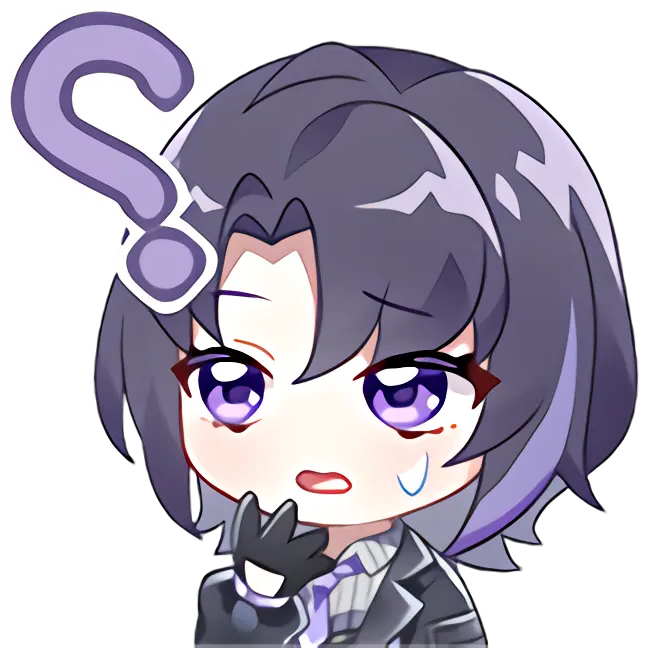
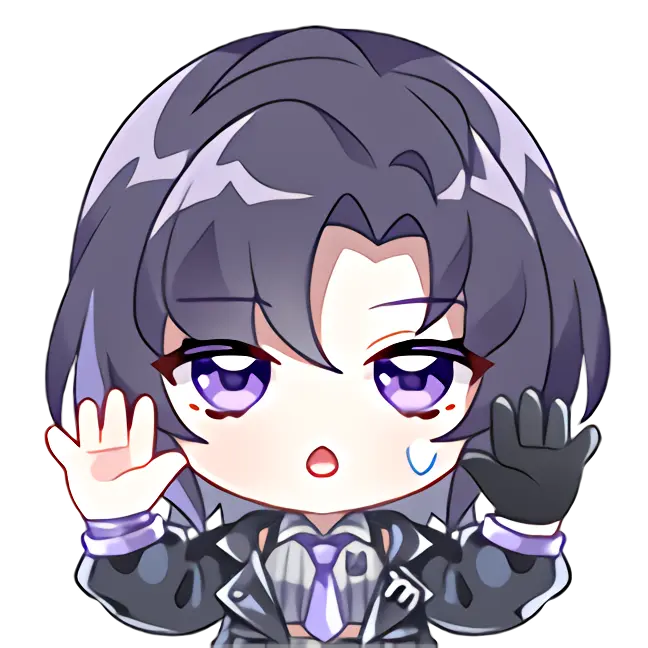
增加更多互动状态  指定默认生成位置

diff --git a/src/index.js b/src/index.js
@@ -28,6 +28,28 @@ const TABLE = {
     bait: "icecream",
   },
 };
+const POSITIONS = [
+  {
+    x: 0,
+    y: $(window).height() - 100,
+  },
+  {
+    x: $(window).width() - 100,
+    y: $(window).height() - 100,
+  },
+  {
+    x: 0,
+    y: 0,
+  },
+  {
+    x: $(window).width() - 100,
+    y: 0,
+  },
+  {
+    x: ($(window).width() - 100) / 2,
+    y: $(window).height() - 100,
+  },
+];
 
 /* class definition */
 class ASoul {
@@ -88,12 +110,9 @@ class ASoul {
       })
       .mouseup((e) => {
         this.updatePosition(this.getPosition(this.selector));
-        let min = 2;
-        let max = 5;
-        let rand = parseInt(Math.random() * (max - min + 1) + min, 10);
         this.sendMessage();
         setTimeout(() => {
-          this.changeStatus("interact_" + rand);
+          this.changeStatus("interact_" + randInt(2, 9));
         }, 500);
       })
       // drag & drop event
@@ -371,16 +390,18 @@ function towardFollowMouse(actor) {
 /* main */
 async function main() {
   await loadStorage("CONFIG").then((config) => {
-    NAMETABLE.forEach((actorName) => {
+    let position = 0;
+    NAMETABLE.forEach((actorName, index) => {
       let actorConfig = config.actors[actorName];
       if (actorConfig.enabled) {
         // enabled
         let actor = new ASoul({
-          x: 0,
-          y: $(window).height() - 100, // pic height
+          x: POSITIONS[position].x,
+          y: POSITIONS[position].y,
           speed: config.speed,
           actor: actorName,
         });
+        position += 1;
         if (actorConfig.options.followClick) {
           followClick(actor);
         }
